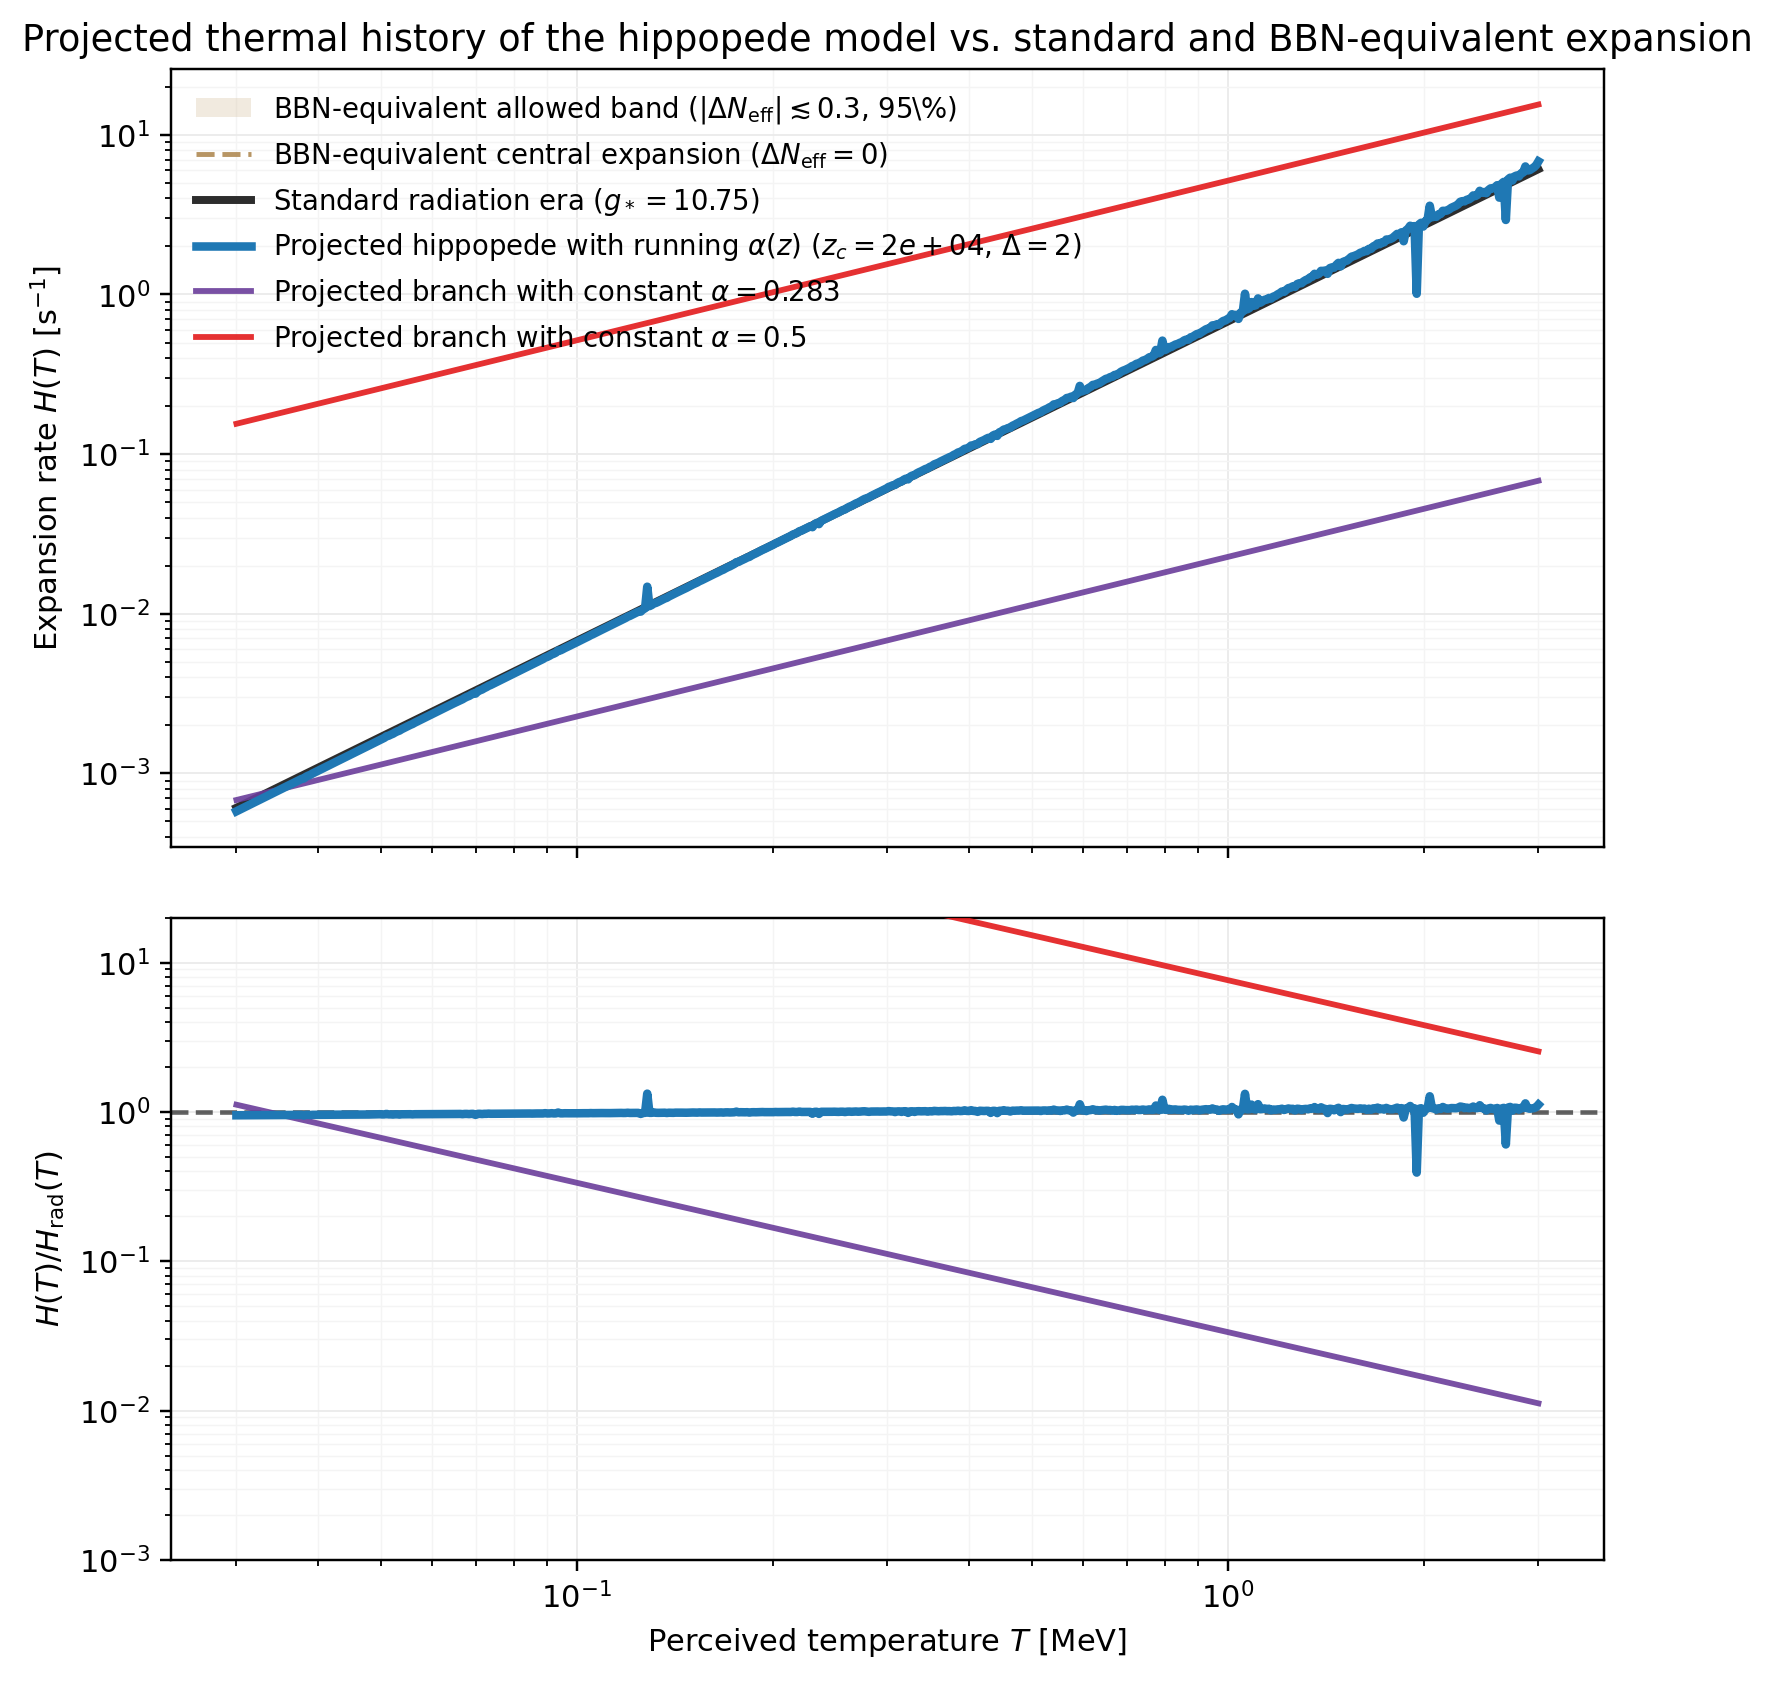
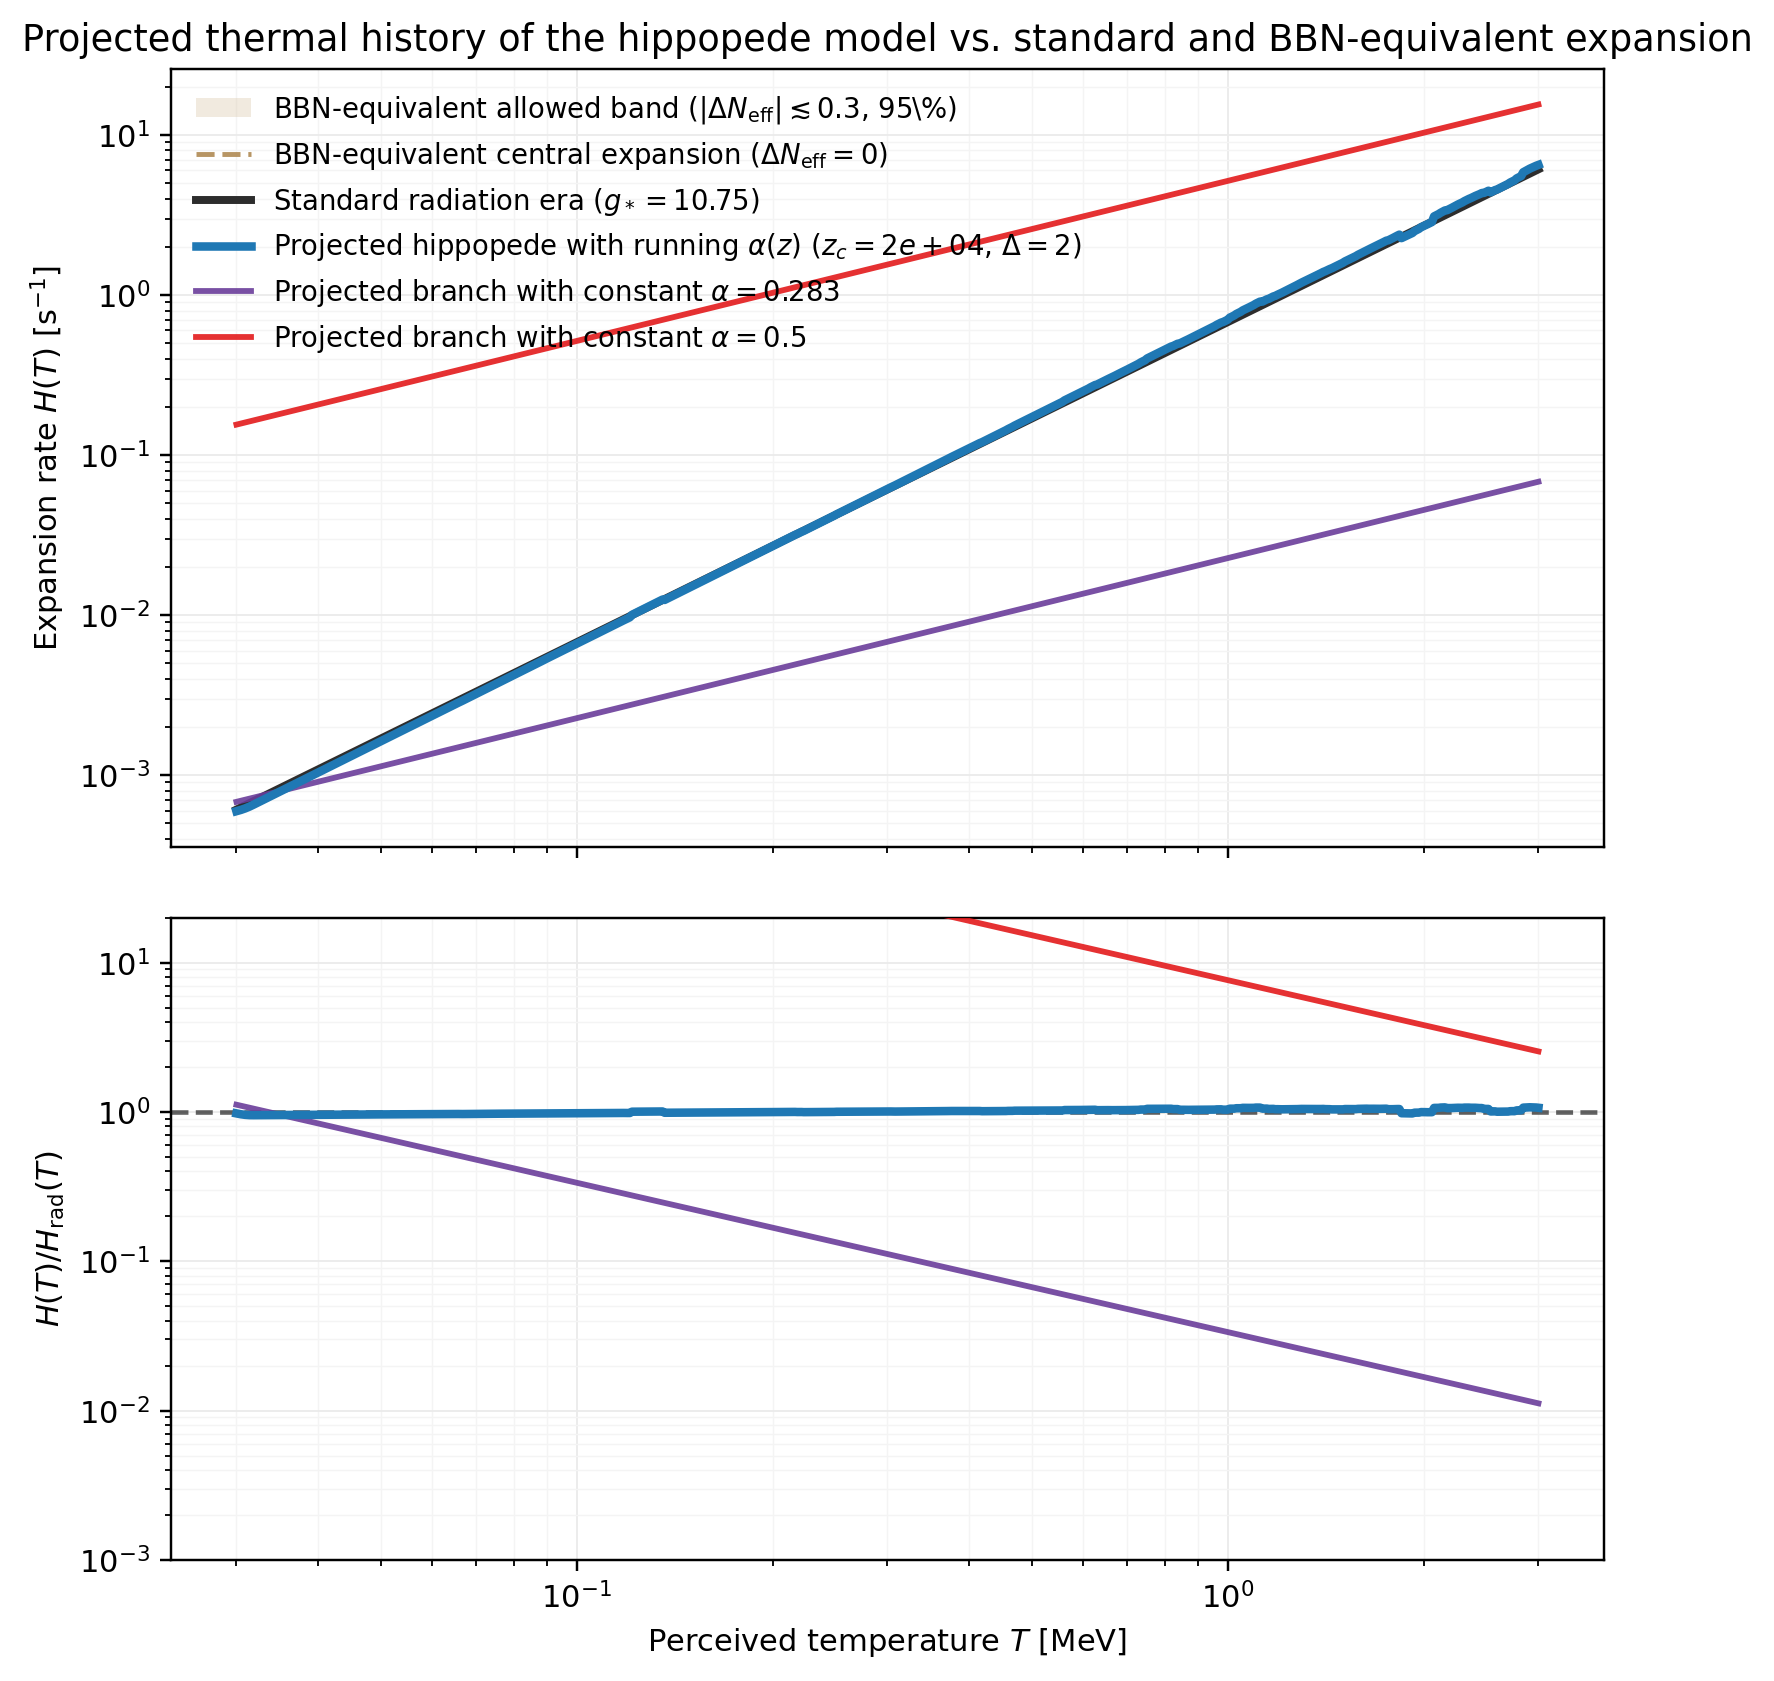
Auto-sync local changes 2026-04-19 23:19:54

diff --git a/scripts/plot_hippopede_projected_thermal_history_bbn.py b/scripts/plot_hippopede_projected_thermal_history_bbn.py
@@ -38,6 +38,7 @@ DELTA_NEFF_95 = 0.30
 T_MIN_MEV = 0.03
 T_MAX_MEV = 3.0
 N_T = 600
+SMOOTH_WINDOW = 15
 
 
 def alpha_logistic(z: np.ndarray, zc: float = ZC, delta: float = DELTA):
@@ -77,6 +78,17 @@ def neff_to_scale(delta_neff: np.ndarray | float):
     return np.sqrt(1.0 + (7.0 / 43.0) * delta_neff)
 
 
+def smooth_positive_series(y: np.ndarray, window: int = SMOOTH_WINDOW):
+    y = np.asarray(y, dtype=float)
+    if window <= 1 or len(y) < window:
+        return y.copy()
+    pad = window // 2
+    logy = np.log(y)
+    padded = np.pad(logy, pad_width=pad, mode="edge")
+    kernel = np.ones(window, dtype=float) / float(window)
+    return np.exp(np.convolve(padded, kernel, mode="valid"))
+
+
 def main():
     temperatures = np.geomspace(T_MIN_MEV, T_MAX_MEV, N_T)
     z = z_of_temperature_mev(temperatures)
@@ -94,6 +106,7 @@ def main():
     h_low = H0_SI * np.interp(z, z_eval, e_low)
     h_half = H0_SI * np.interp(z, z_eval, e_half)
     h_run = H0_SI * np.interp(z, z_eval, e_run)
+    h_run = smooth_positive_series(h_run, window=SMOOTH_WINDOW)
 
     ratio_low = h_low / h_std
     ratio_half = h_half / h_std
